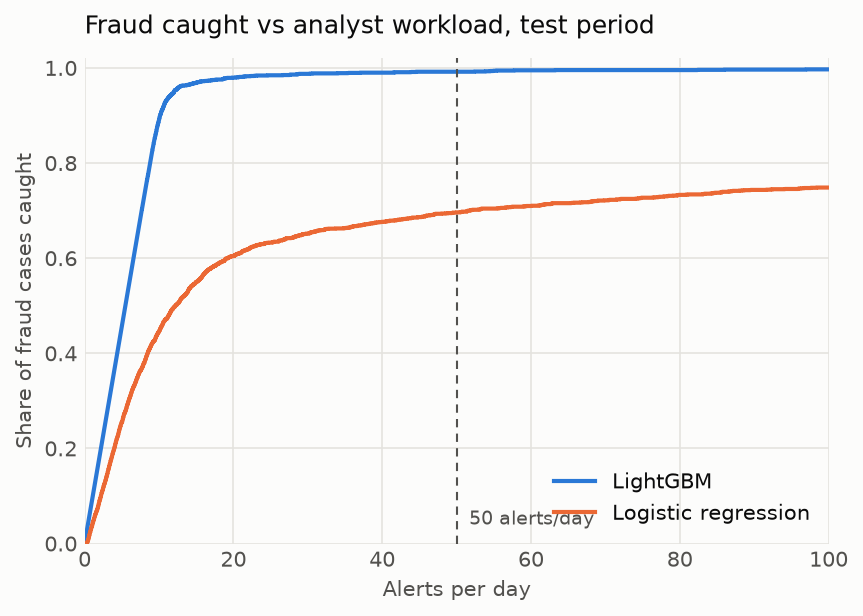
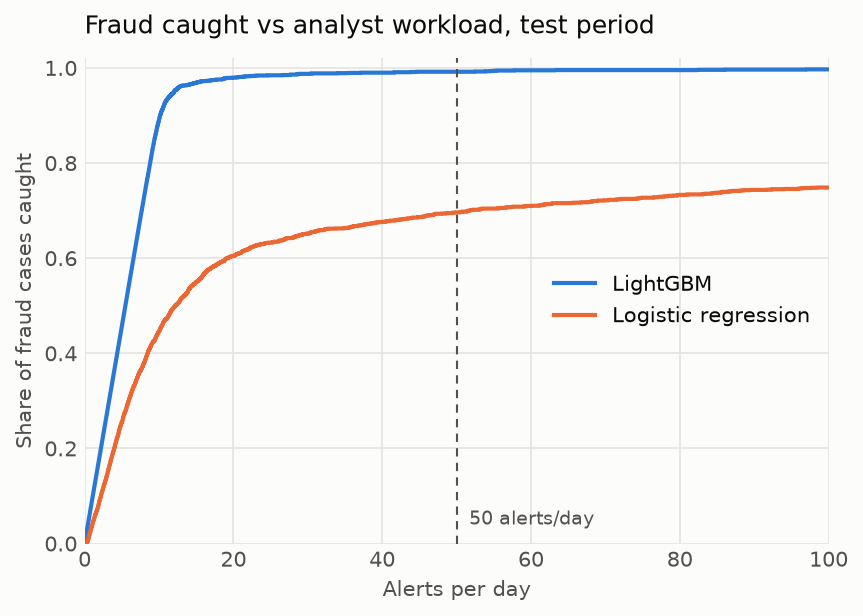
docs: move workload chart legend off the budget label

Changed region(s): [[0.6327, 0.7711, 0.934, 0.8636], [0.6327, 0.4318, 0.934, 0.5244], [0.6327, 0.4318, 0.6929, 0.4627]]

diff --git a/src/fraud_alert_explainer/charts.py b/src/fraud_alert_explainer/charts.py
@@ -93,7 +93,7 @@ def budget_tradeoff(
     )
     ax.set_xlim(0, max_per_day)
     ax.set_ylim(0, 1.02)
-    ax.legend(frameon=False, labelcolor=TEXT, loc="lower right")
+    ax.legend(frameon=False, labelcolor=TEXT, loc="center right")
     _save(fig, path)
 
 
